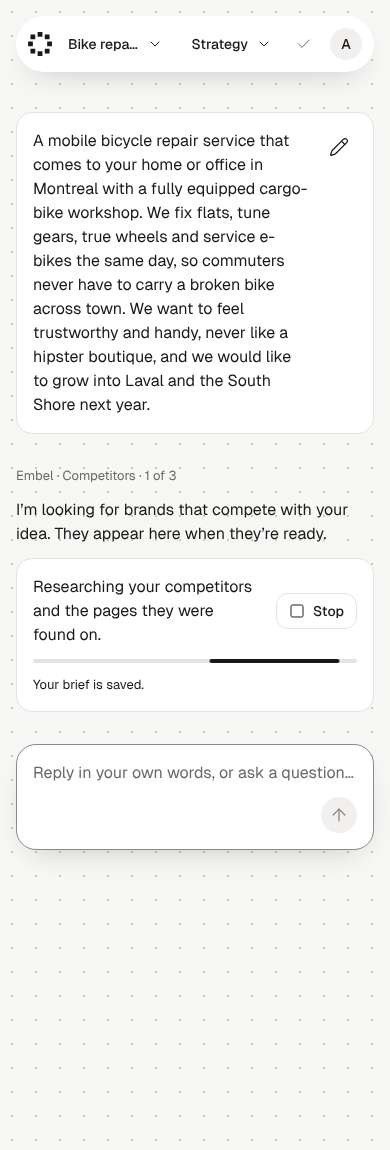
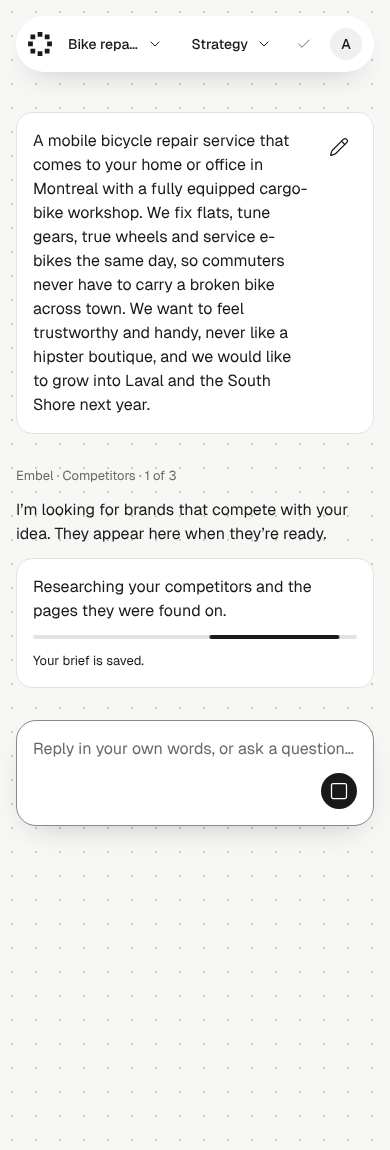
Record Nov 13 owner decisions and re-export changed screens
Chat resize keeps option 2, the fuller drawing effect is approved, Stop sits in
the reply box at every width, and direction cards stay as designed. Six approved
screens re-exported from the canvas.

Claude-Session: https://claude.ai/code/session_01572c2SUBVwKbuaGXLZJQ6s

Changed region(s): [[0.0308, 0.6391, 0.9231, 0.7304], [0.0923, 0.487, 0.9231, 0.6087], [0.0308, 0.7, 0.0615, 0.7304]]

diff --git a/design-assets/handoff.md b/design-assets/handoff.md
@@ -12,16 +12,17 @@ November 13, 2026. This file closes Prompt 6 of the design audit plan and is the
 
 These change what the screens look like compared with the first round; the canvas and the design system already reflect them.
 
-1. **Desktop conversation = side chat.** At 1024 px and up every project-conversation screen uses the Workspace: the chat in a floating panel 16 px from the window's left, top and bottom edges, the work on the right, filling the window. The chat and the work area scroll separately. The chat can be resized (320 to 560 px) and hidden. Below 1024 px the conversation stays one column.
-2. **Send is the one way forward.** No Continue or Explore buttons. Chosen options and results sit in the reply box as chips; Send starts the work or moves to the next step; Stop takes Send's place while Embel works.
+1. **Desktop conversation = side chat.** At 1024 px and up every project-conversation screen uses the Workspace: the chat in a floating panel 16 px from the window's left, top and bottom edges, the work on the right, filling the window. The chat and the work area scroll separately. The chat can be resized (320 to 560 px at every window width) and hidden. While it is widened, results that must all be in view shrink so they stay three across (owner chose this, option 2, on Nov 13): at 1440 × 900 a logo concept is 304 px with the chat at 400 px and 251 px at 560 px. Below 1024 px the conversation stays one column.
+2. **Send is the one way forward.** No Continue or Explore buttons. Chosen options and results sit in the reply box as chips; Send starts the work or moves to the next step; Stop takes Send's place while Embel works, at every width (the one-column screens too; the progress row has no Stop button).
 3. **Results fit the window.** Six logo concepts (two rows of three) and three direction boards (one row) are fully in view at 1440 × 900. A chosen result keeps its size and place, marked by the ring only; no tick on generated results.
 4. **Logo concepts are artwork only.** No label row or Choose button: the whole picture chooses it; Enlarge stays in the corner; the logo sits inset 12% in its tile.
-5. **Drawing state.** Concepts being made show a dotted frame and a sweeping grey halftone ("Drawing"), then come in from a blur (after transitions.dev's generative effect, rebuilt in CSS).
+5. **Drawing state (fuller effect approved Nov 13).** A concept being made shows a dotted frame with corner handles, two mono labels on its top line ("Concept 3" and "Drawing") and a sweeping grey halftone. When it arrives it draws itself from its own pixels in about 3 seconds: contour sketch, grey screen, colour dots, then the picture (the "image" variant of transitions.dev's Generative effect). Build it with that skill's own script; its licence allows use in the product. The canvas board "Logo · Drawing (loading)" plays an approximation written for the design. Logo concepts only for now; direction boards keep the simple blur.
 6. **Name step.** Compact one-row name cards, four across; 40 names per batch; no radio circle; Details opens the name details over the work area only.
 7. **Name details.** Extra-large dialog with Domains (search, Extensions, Tweaks and Filters panels, sort, quick filters, prices), Handles and Trademarks.
 8. **Project bar.** The current step has no fill; its ring-and-dot mark and ink text show it.
 9. **Domain prices** are an exception to "credits, never money" (owner decision).
-10. **Prototype.** Page 9 of the canvas is one clickable prototype of the desktop flow (15 screens, from competitor research to the finished brand).
+10. **Direction cards** keep their current design (owner, Nov 13); they are not reduced to artwork only like the logo concepts.
+11. **Prototype.** Page 9 of the canvas is one clickable prototype of the desktop flow (15 screens, from competitor research to the finished brand).
 
 ## Screens and the D- IDs they address
 
@@ -56,10 +57,11 @@ Part B items in `Design_AUDIT.md` section 6 that are not named on any canvas row
 
 ## Left unresolved
 
+- **Text choice cards** (Audience, Positioning, Personality, Slogan, and the Strategy and Voice answers): they still show a tick in a circle when chosen, unlike generated results and name cards. Waiting for the owner.
+
 - **D-024** (the direction board shows a different logo from the chosen one) and **D-036** (Usage counts tokens, not credits) need the owner's decision; the canvas shows the proposed screens.
 - **IMG-007 / IMG-008:** the third Home example brand is a placeholder ("needs owner approval to generate"); the first two use the showcase brands.
 - **Audience, Positioning, Personality and Slogan** have desktop side-chat screens only; at 768 and 390 they follow the one-column conversation as in the current app.
-- **Drawing effect:** the full transitions.dev reveal (sketch, halftone and colour from the finished picture's pixels) needs that skill's script in the app; the CSS version is in the design system. Its licence allows use in the product, not redistributing the library.
 - **Name details checks:** only YouTube handles and the EU trademark register are checked live today; domain search across many extensions needs a bulk check from the domain provider, which also supplies the prices.
 
 ## Final image slot sizes (CSS px, as rendered on the canvas)
@@ -76,7 +78,7 @@ Export each slot at 1× and 2× of the largest width it appears at. "Side chat" 
 | IMG-014 | Inspiration tiles (licensed) | 141 × 141 and 290 × 163 | — | 205 × 205 and 418 × 235 | Keep the existing boards |
 | IMG-017 | "Your images", 4:3 | 290 × 218 | — | 287 × 215 | Person's uploads |
 | IMG-018 | Logo concept tile, 1:1 | 356 (one across) | 348 (two across) | 302–304 (side chat) | Logo inset 12%; enlarged view 16:9: 358 × 201 at 390, 812 × 457 at 1440 |
-| IMG-019 | Logo drawing / failed tile | as IMG-018 | as IMG-018 | as IMG-018 | CSS only (`e-media--drawing`) |
+| IMG-019 | Logo drawing / failed tile | as IMG-018 | as IMG-018 | as IMG-018 | CSS (`e-media--drawing`) plus the reveal script (`e-media--revealing`, `e-media__canvas`) |
 | IMG-020 | Chosen-logo thumbnail | 44 × 44 | 44 × 44 | 44 × 44 | Finished brand: 16:9 logo card 356 × 200 / 718 × 404 / 372 × 209 |
 | IMG-021 | Direction board tile, 1:1 | 356 | 348 (two across) | 302 (side chat) | Chosen on the finished brand: 356 / 718 / 560; enlarged: up to 62% of the window height |
 | IMG-022 | Brand board, 8:11 | 356 × 490 | 718 × 987 | 617 × 849 | File 1600 × 2200 |

diff --git a/design-audit/Design_Audit_Plan.md b/design-audit/Design_Audit_Plan.md
@@ -479,7 +479,8 @@ When done, list for each screen: the D- IDs addressed, anything left unresolved,
 - Logo concepts are chosen by clicking the picture (no label row or Choose button); six concepts or three directions fit the window; a chosen result keeps its size and shows the ring only.
 - Name step: compact name cards, 40 per batch; name details open over the work area with Domains (extensions, tweaks, filters, sort, registrar prices), Handles and Trademarks tabs.
 - The current journey step has no fill. Domain prices are an exception to "credits, never money".
-- Open for the owner: D-024, D-036, the third Home example image, and whether to use the full transitions.dev drawing effect.
+- Also decided Nov 13: results shrink while the chat is widened (chat 320 to 560 px); the fuller transitions.dev drawing effect is used for logo concepts; Stop is in the reply box at every width; direction cards stay as designed.
+- Open for the owner: D-024, D-036, the third Home example image, and whether text choice cards keep their tick.
 
 ## Prompt 7: Image asset production
 
@@ -503,7 +504,7 @@ Steps
 4. Icons: confirm every icon the approved screens use exists in the design system's Lucide set (the icons it defines in components/bundle.css), and list any that are missing. Record the licence (ISC).
 5. Write design-assets/manifest.md: ID, files, source, capture date, alt text (or alt=""), LCP flag, and for each slot covered in code, the design-system class or canvas board that defines it. Add a contact sheet of the captured assets.
 6. Add an "Implementation notes" section to manifest.md:
-   - The logo "drawing" effect: the CSS version is in the design system. The fuller reveal from transitions.dev's generative-effect skill would need its script in the app; its licence allows use in the product but not redistribution of the library. List it as an option for me to decide.
+   - The logo "drawing" effect (approved): the frame, handles and labels are CSS in the design system; the reveal uses the script from transitions.dev's Generative effect skill ("image" variant). Record its source, version and licence (use in the product is allowed; do not redistribute the library).
    - Domain prices in name details: the registrar's price in USD, per year, comes from the domain provider at check time and is not a static asset.
 
 Close with a recap: slots done, slots covered by code, and anything left open (at least the third Home example, and D-024 and D-036 from handoff.md).
@@ -511,7 +512,7 @@ Close with a recap: slots done, slots covered by code, and anything left open (a
 
 ## Implementation, re-capture and review
 
-**Before you start.** Four things must be true. The deny rules are removed from .claude/settings.local.json. The code cleanup is finished. The cleaned-up code sits on the same git branch as the design-audit/ and design-assets/ folders; ask Claude Code to "bring the design-audit branch and the cleaned-up code together on one branch, and tell me if anything conflicts". And you have decided the open items listed in design-assets/handoff.md (D-024, D-036, the third Home example, and the drawing effect), or you are happy for implementation to skip them.
+**Before you start.** Four things must be true. The deny rules are removed from .claude/settings.local.json. The code cleanup is finished. The cleaned-up code sits on the same git branch as the design-audit/ and design-assets/ folders; ask Claude Code to "bring the design-audit branch and the cleaned-up code together on one branch, and tell me if anything conflicts". And you have decided the open items listed in design-assets/handoff.md (D-024, D-036, the third Home example, and the text choice cards' tick), or you are happy for implementation to skip them.
 
 ### Prompt 7b: Refresh file references
 
@@ -551,7 +552,7 @@ Rules
 - Work on a new git branch called redesign, created from the branch that holds the cleaned-up code and the design-audit/ folder. Commit after each phase. Never push or deploy; I do that.
 - Change how the app looks and responds, not what it does. Do not change features, data, routes, API calls, authentication, payments or legal text. If a design seems to need a change in behaviour, stop and ask me.
 - These interaction changes are already approved (handoff.md, "Decisions"), so build them without asking: the side chat at 1024 px and up (resizable and hideable, width and hidden state remembered for the person); Send as the one way forward, with chosen options as chips in the reply box and Stop replacing Send while Embel works (remove the Continue and Explore buttons); click-to-choose logo concepts; results sized to fit the window; compact name cards with 40 names per batch; name details opening over the work area; the current step with no fill.
-- These need my go-ahead because they need new data or provider work: domain search across many extensions, tweaks, filters, sort and registrar prices; handle checks beyond YouTube; trademark search beyond the EU; the full transitions.dev drawing effect; and any open item in handoff.md. Build their screens with what the API supports today, and list the rest.
+- These need my go-ahead because they need new data or provider work: domain search across many extensions, tweaks, filters, sort and registrar prices; handle checks beyond YouTube; trademark search beyond the EU; and any open item in handoff.md. The fuller drawing effect is approved: add the transitions.dev Generative effect script for it (record its licence), and ask me only if it needs a new dependency. Build their screens with what the API supports today, and list the rest.
 - Build what the approved screens show. Where they are silent (a state or screen that was not designed), apply the design system and list the gap. Do not invent a new look.
 - Do not add a dependency without asking me first.
 - Run the seed reset from design-audit/README.md before you start. Never start a real AI generation; use the recipes in README.md.
